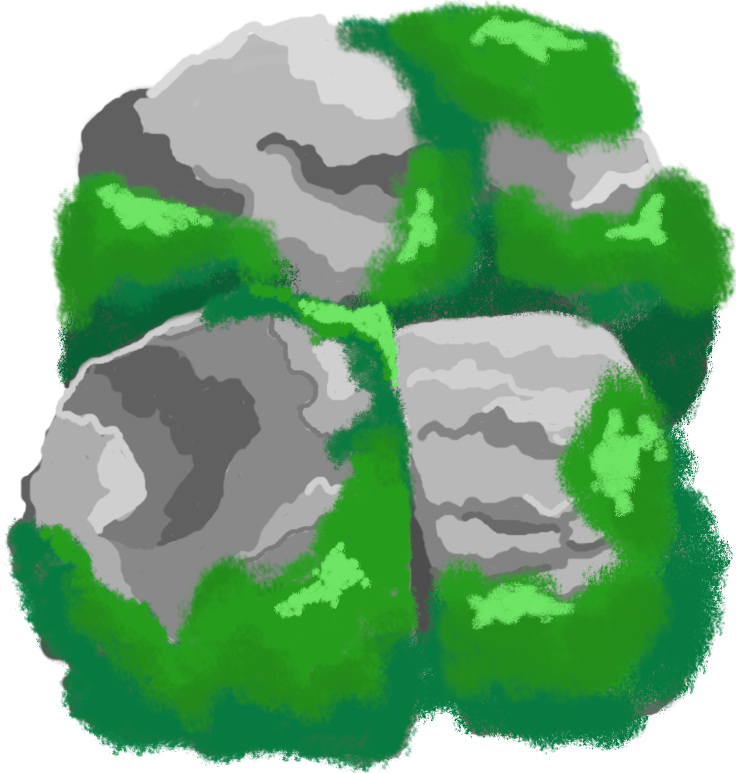
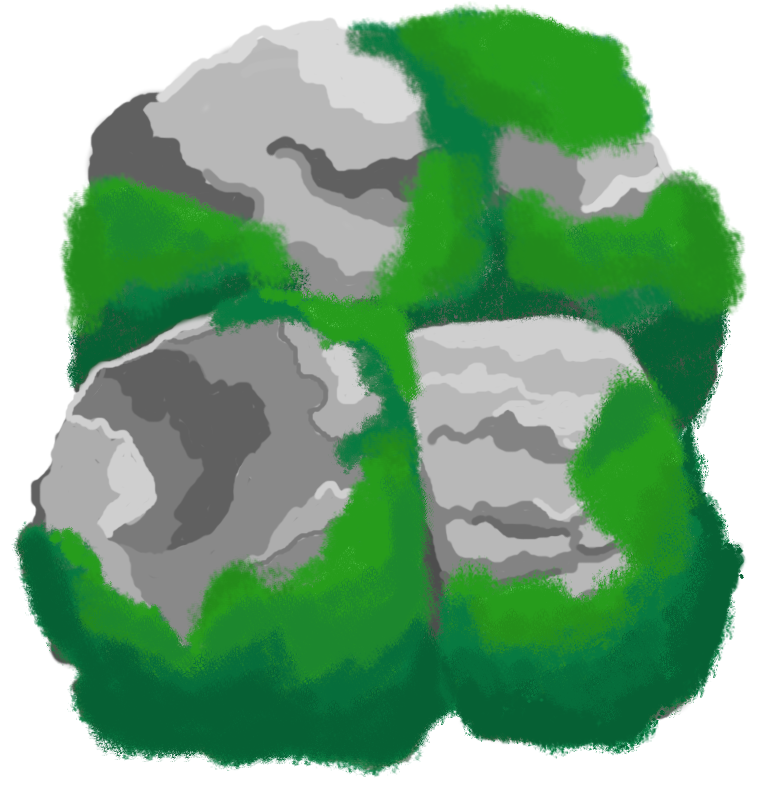
new tiles

diff --git a/core/src/root/GameMode.java b/core/src/root/GameMode.java
@@ -352,8 +352,7 @@ public class GameMode extends Mode implements Screen {
      */
 
     private static final String CITY_TILE_FILE = "entities/city-brick.png";
-    private static final String SUBURB_TILE_FILE = "entities/suburb-tiles.png";
-    private static final String VILLAGE_TILE_FILE = "entities/suburb-tiles.png";
+    private static final String VILLAGE_TILE_FILE = "entities/village-tile.png";
     private static final String FOREST_TILE_FILE = "entities/mossyrocks.png";
     private static final String MOUNTAIN_TILE_FILE = "entities/earthtile.png";
 
